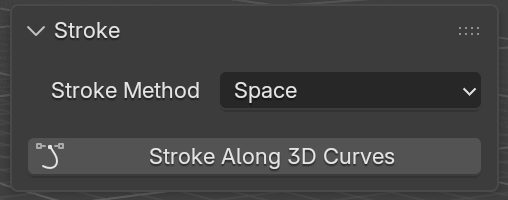
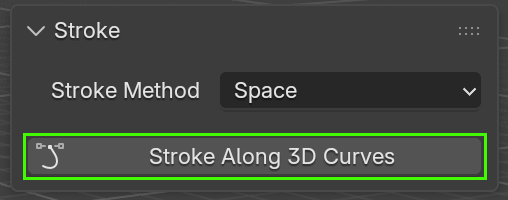
Highlight boxes on step 2 and Import; handles image shows both colours
Green boxes (#42FA02, as in the other add-ons' docs) around Stroke Along
3D Curves and Import; the Importing page has its own panel shot with a
curve object picked. bezier_handles.png now has a broken (green) pair.

Changed region(s): [[0.0295, 0.66, 0.9744, 0.9]]

diff --git a/docs/importing_curves.rst b/docs/importing_curves.rst
@@ -12,7 +12,7 @@ Any Blender curve object can be brought onto the mesh as surface curves, to draw
 
 In the Stroke panel, pick the curve object in the field at the bottom and click **Import**:
 
-.. image:: _static/images/stroke_panel_on.png
+.. image:: _static/images/stroke_panel_import.png
    :alt: Import, at the bottom of the Stroke panel
 
 Each spline in the curve object becomes a surface curve, named after the object, and each of its points is moved onto the
